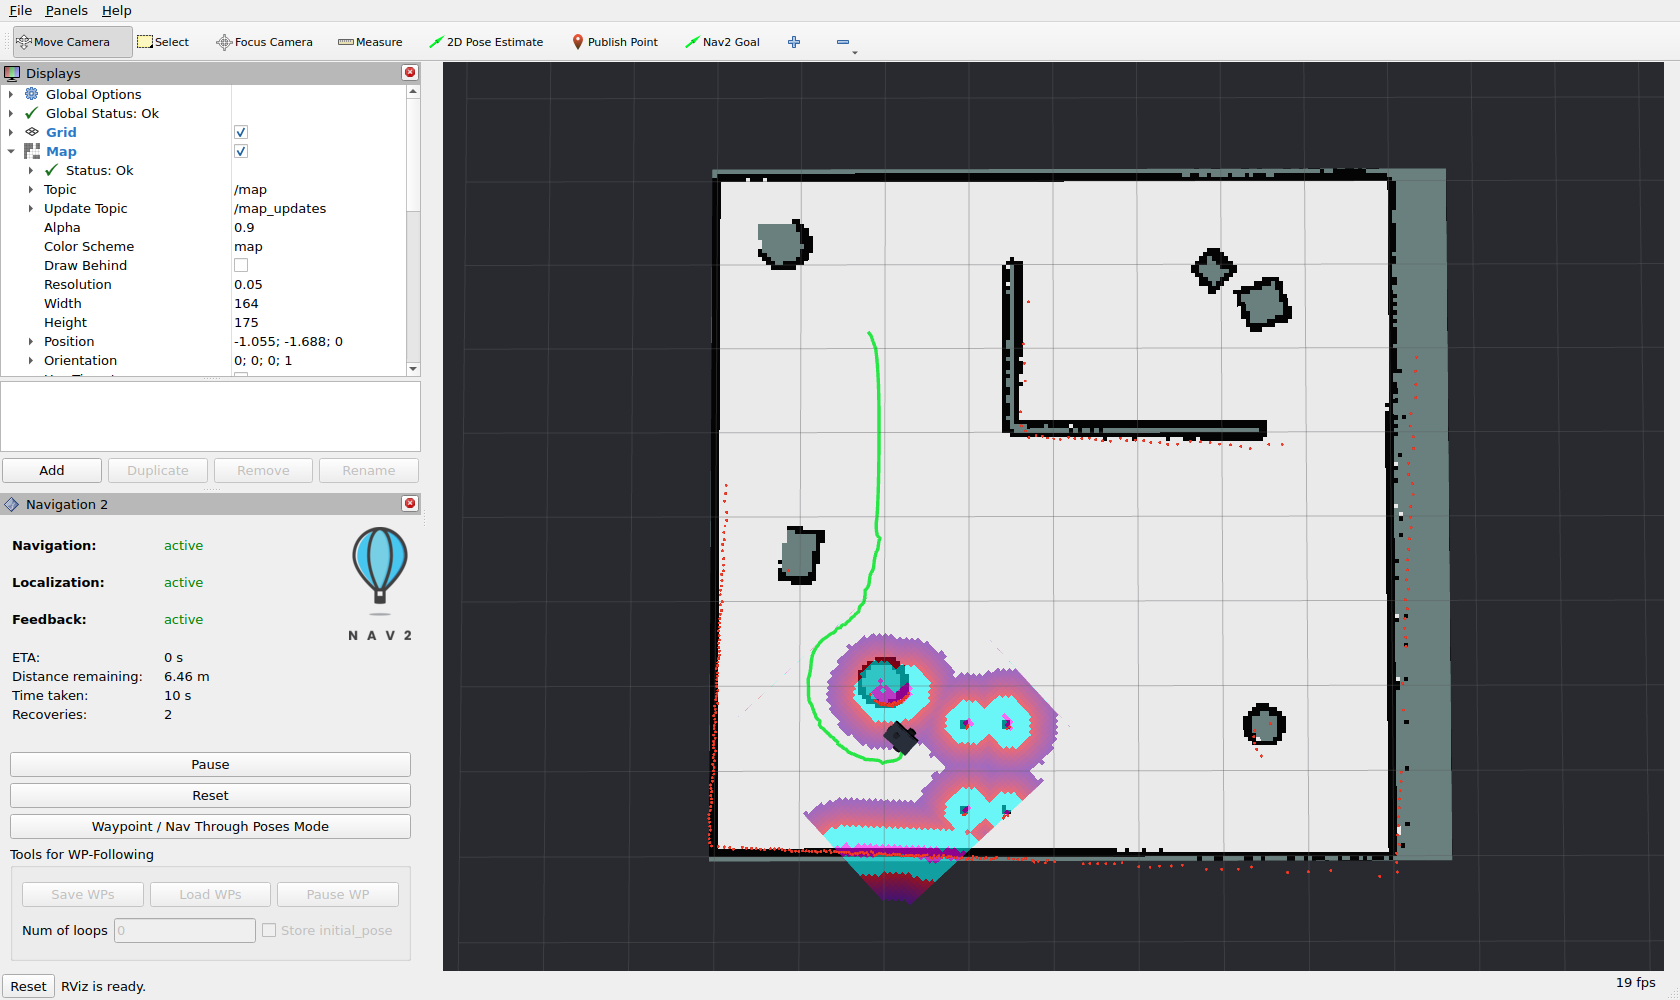
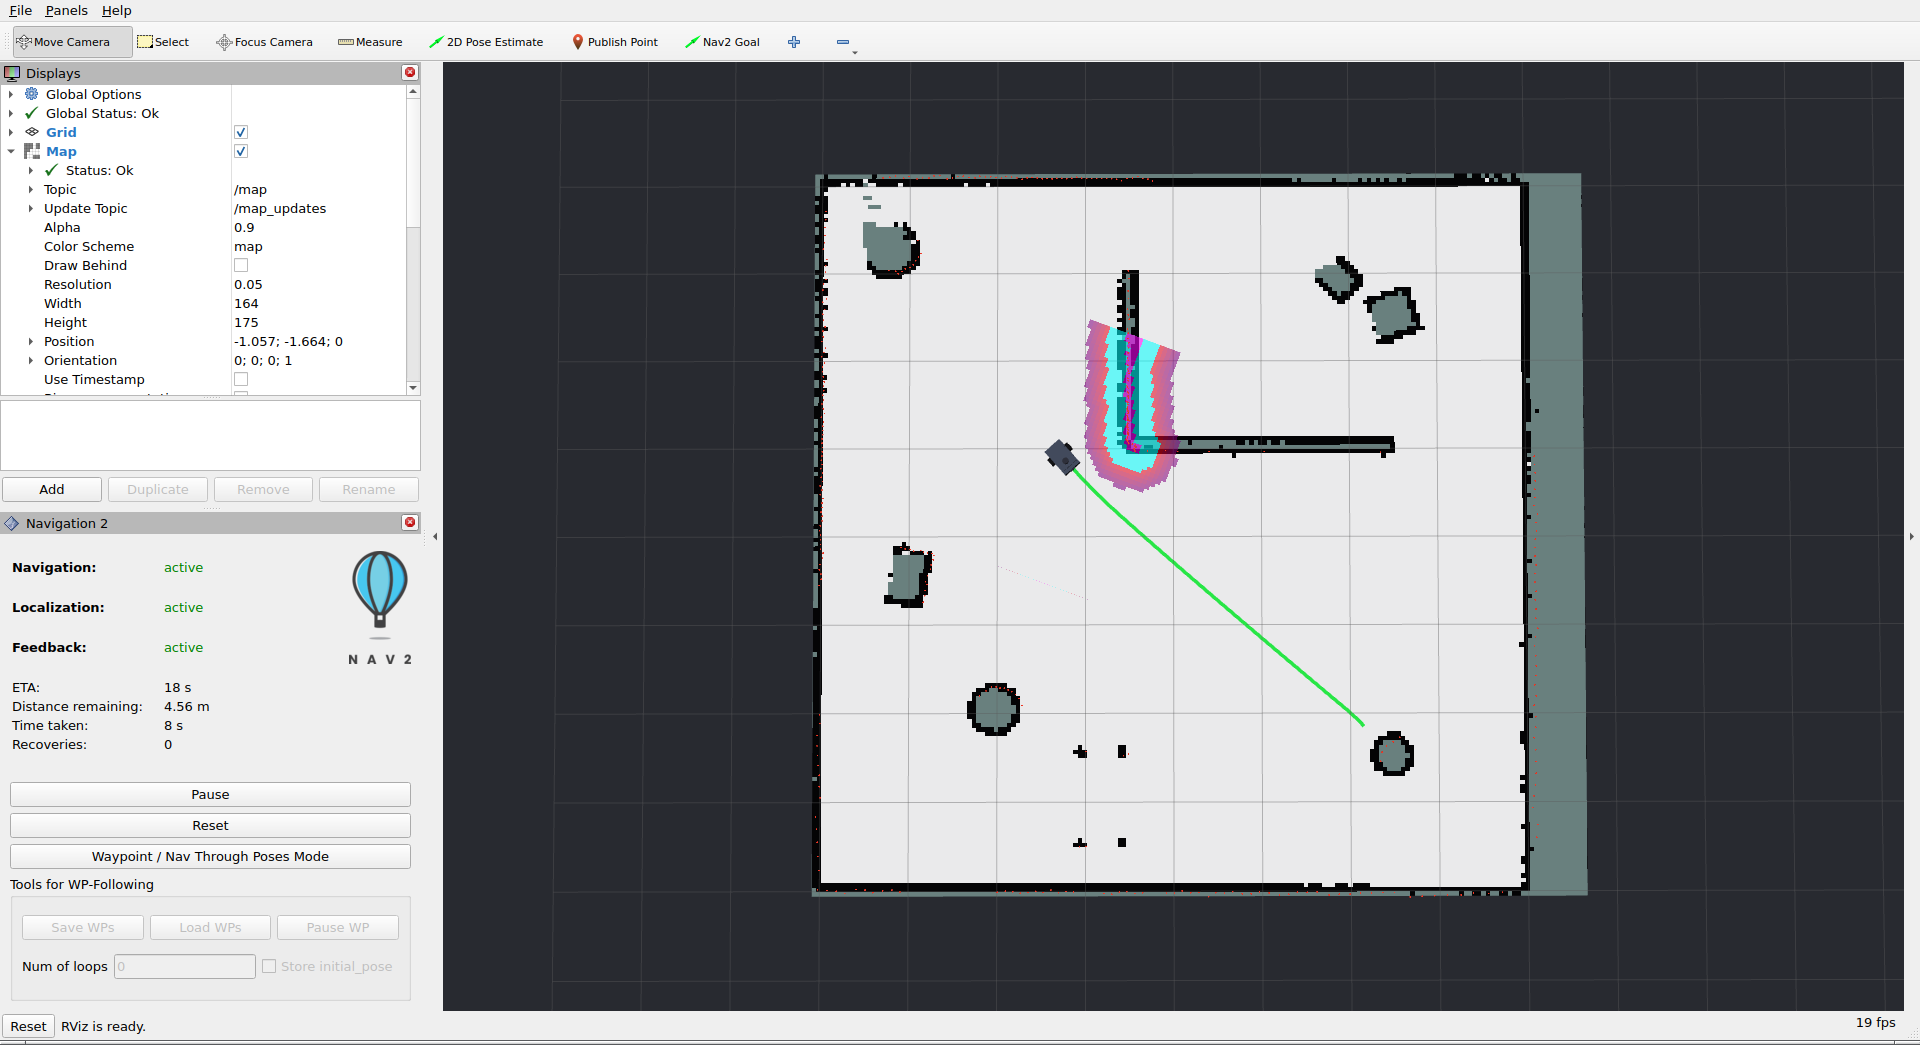
Make RViz layouts reproducible, and record two RViz rendering limits
The RViz configs looked nothing like the screenshots on a different machine.
Panel sizes are not in the readable part of an .rviz file at all: they live in
Window Geometry > QMainWindow State, a Qt-serialised blob tied to the window
size. A hand-written config without that blob makes RViz distribute panels
evenly, which is why it differed.

- scripts/bake_rviz_geometry.sh runs RViz on a 1920x1080 virtual display, sends
  Ctrl+S, and splices the saved geometry block back into the hand-written config
  so the comments are kept. All three configs now carry a layout baked at that
  resolution, and capture_rviz.sh captures at the same size, so screenshots match
  what a user sees
- both scripts now start a window manager on the virtual display; without one,
  windows cannot be focused and synthetic keystrokes never reach the application

Two rendering behaviours found while fixing this, both now documented in the
URDF and the README:

- RViz applies one material per LINK, Gazebo one per VISUAL. A link with several
  visual elements renders in RViz entirely in the first one's colour. Verified by
  reordering: moving the deck ahead of the chassis turned the whole body blue.
  The visual order is now chosen deliberately rather than by accident, and the
  chassis colour is the one RViz will actually use
- laser points reduced to 2 cm so they read as measurements on a wall rather than
  a smear over it

Also adds scripts/check_xml.py, because forbidden '--' inside XML comments has
[…]

diff --git a/scripts/check_xml.py b/scripts/check_xml.py
@@ -1,0 +1,63 @@
+#!/usr/bin/env python3
+"""Validate (and optionally repair) the project's XML files.
+
+Exists because of one specific trap that broke this project four separate times:
+XML forbids a double hyphen anywhere inside a comment body. Writing
+
+    <!-- the wheels spin freely -- that is what makes them drive wheels -->
+
+or using a row of hyphens as an underline is illegal, and xacro fails with a bare
+"not well-formed (invalid token)" pointing at the line, which reads like a syntax error
+in the robot description rather than a punctuation problem in a comment.
+
+    scripts/check_xml.py            check every URDF/xacro/world/package.xml
+    scripts/check_xml.py --fix      rewrite offending comments, then check
+
+Run it after editing any of them; it takes well under a second.
+"""
+
+import pathlib
+import re
+import sys
+import xml.etree.ElementTree as ET
+
+ROOT = pathlib.Path(__file__).resolve().parent.parent
+PATTERNS = ('src/**/*.xacro', 'src/**/*.urdf', 'src/**/*.world',
+            'src/**/*.sdf', 'src/**/package.xml')
+
+
+def repair(text: str) -> str:
+    """Remove '--' from comment bodies while protecting the delimiters themselves."""
+    text = text.replace('<!--', '\x01').replace('-->', '\x02')
+    text = re.sub(r'-{3,}', lambda m: '=' * len(m.group()), text)   # ---- underlines
+    text = text.replace('--', ' -')                                  # em-dash usage
+    return text.replace('\x01', '<!--').replace('\x02', '-->')
+
+
+def main() -> int:
+    fix = '--fix' in sys.argv
+    files = sorted({p for pat in PATTERNS for p in ROOT.glob(pat)})
+    if not files:
+        print('No XML files found.')
+        return 1
+
+    failed = []
+    for path in files:
+        original = path.read_text()
+        if fix:
+            repaired = repair(original)
+            if repaired != original:
+                path.write_text(repaired)
+                print(f'  fixed   {path.relative_to(ROOT)}')
+        try:
+            ET.parse(path)
+        except ET.ParseError as exc:
+            print(f'  FAILED  {path.relative_to(ROOT)}: {exc}')
+            failed.append(path)
+
+    print(f'{len(files) - len(failed)}/{len(files)} files valid.')
+    return 1 if failed else 0
+
+
+if __name__ == '__main__':
+    sys.exit(main())

diff --git a/README.md b/README.md
@@ -97,6 +97,9 @@ map ──> odom ──> base_footprint ──> base_link ──> {left_wheel, r
 ├── docker/Dockerfile                  # the whole environment, reproducible
 ├── scripts/
 │   ├── capture_rviz.sh                # screenshots via Xvfb, no display needed
+│   ├── record_demo.sh                 # the demo video, same way
+│   ├── bake_rviz_geometry.sh          # let RViz write its own panel layout
+│   ├── check_xml.py                   # catch the '--' in XML comments trap
 │   └── stop_all.sh                    # clean shutdown (see Limitations)
 ├── src/
 │   ├── smartphone_robot_interfaces/   # custom action definitions (ament_cmake)
@@ -324,6 +327,22 @@ Problems that were found by testing rather than by reading tutorials, and how th
   `unable to be reached ... Aborting bringup` at any timeout. Configure and activate had
   already succeeded, so SLAM mapped perfectly throughout. Bond checking is now disabled
   for that node.
+- **An RViz config does not fully describe an RViz layout.** Panel sizes live in
+  `Window Geometry: QMainWindow State`, a Qt-serialised blob tied to the window size.
+  A hand-written config without it looks completely different on another screen, because
+  RViz falls back to distributing panels evenly. `scripts/bake_rviz_geometry.sh` runs
+  RViz on a 1920x1080 virtual display, sends it Ctrl+S, and splices the resulting block
+  back into the hand-written file so the comments survive. That also needs a window
+  manager on the virtual display — without one, windows cannot be focused and keystrokes
+  never arrive.
+- **RViz applies one material per link; Gazebo applies one per visual.** A link with
+  several `<visual>` elements renders in RViz entirely in the *first* one's colour.
+  Confirmed by reordering: moving the blue deck ahead of the chassis turned the whole
+  body blue. So the robot shows its full detail in Gazebo and a single flat colour in
+  RViz, and the visual order in the URDF is chosen with that in mind.
+- **XML comments cannot contain `--`.** This broke every xacro file, the world file and
+  a robot description four separate times, each time surfacing as an unhelpful
+  "not well-formed (invalid token)". `scripts/check_xml.py --fix` now catches it.
 - **An unused Nav2 server stopped navigation from starting, silently.** `nav2_bringup`
   brings up `docking_server`, `route_server` and `waypoint_follower` as well as the
   planning stack. This project uses none of them, but they still have to be given valid
